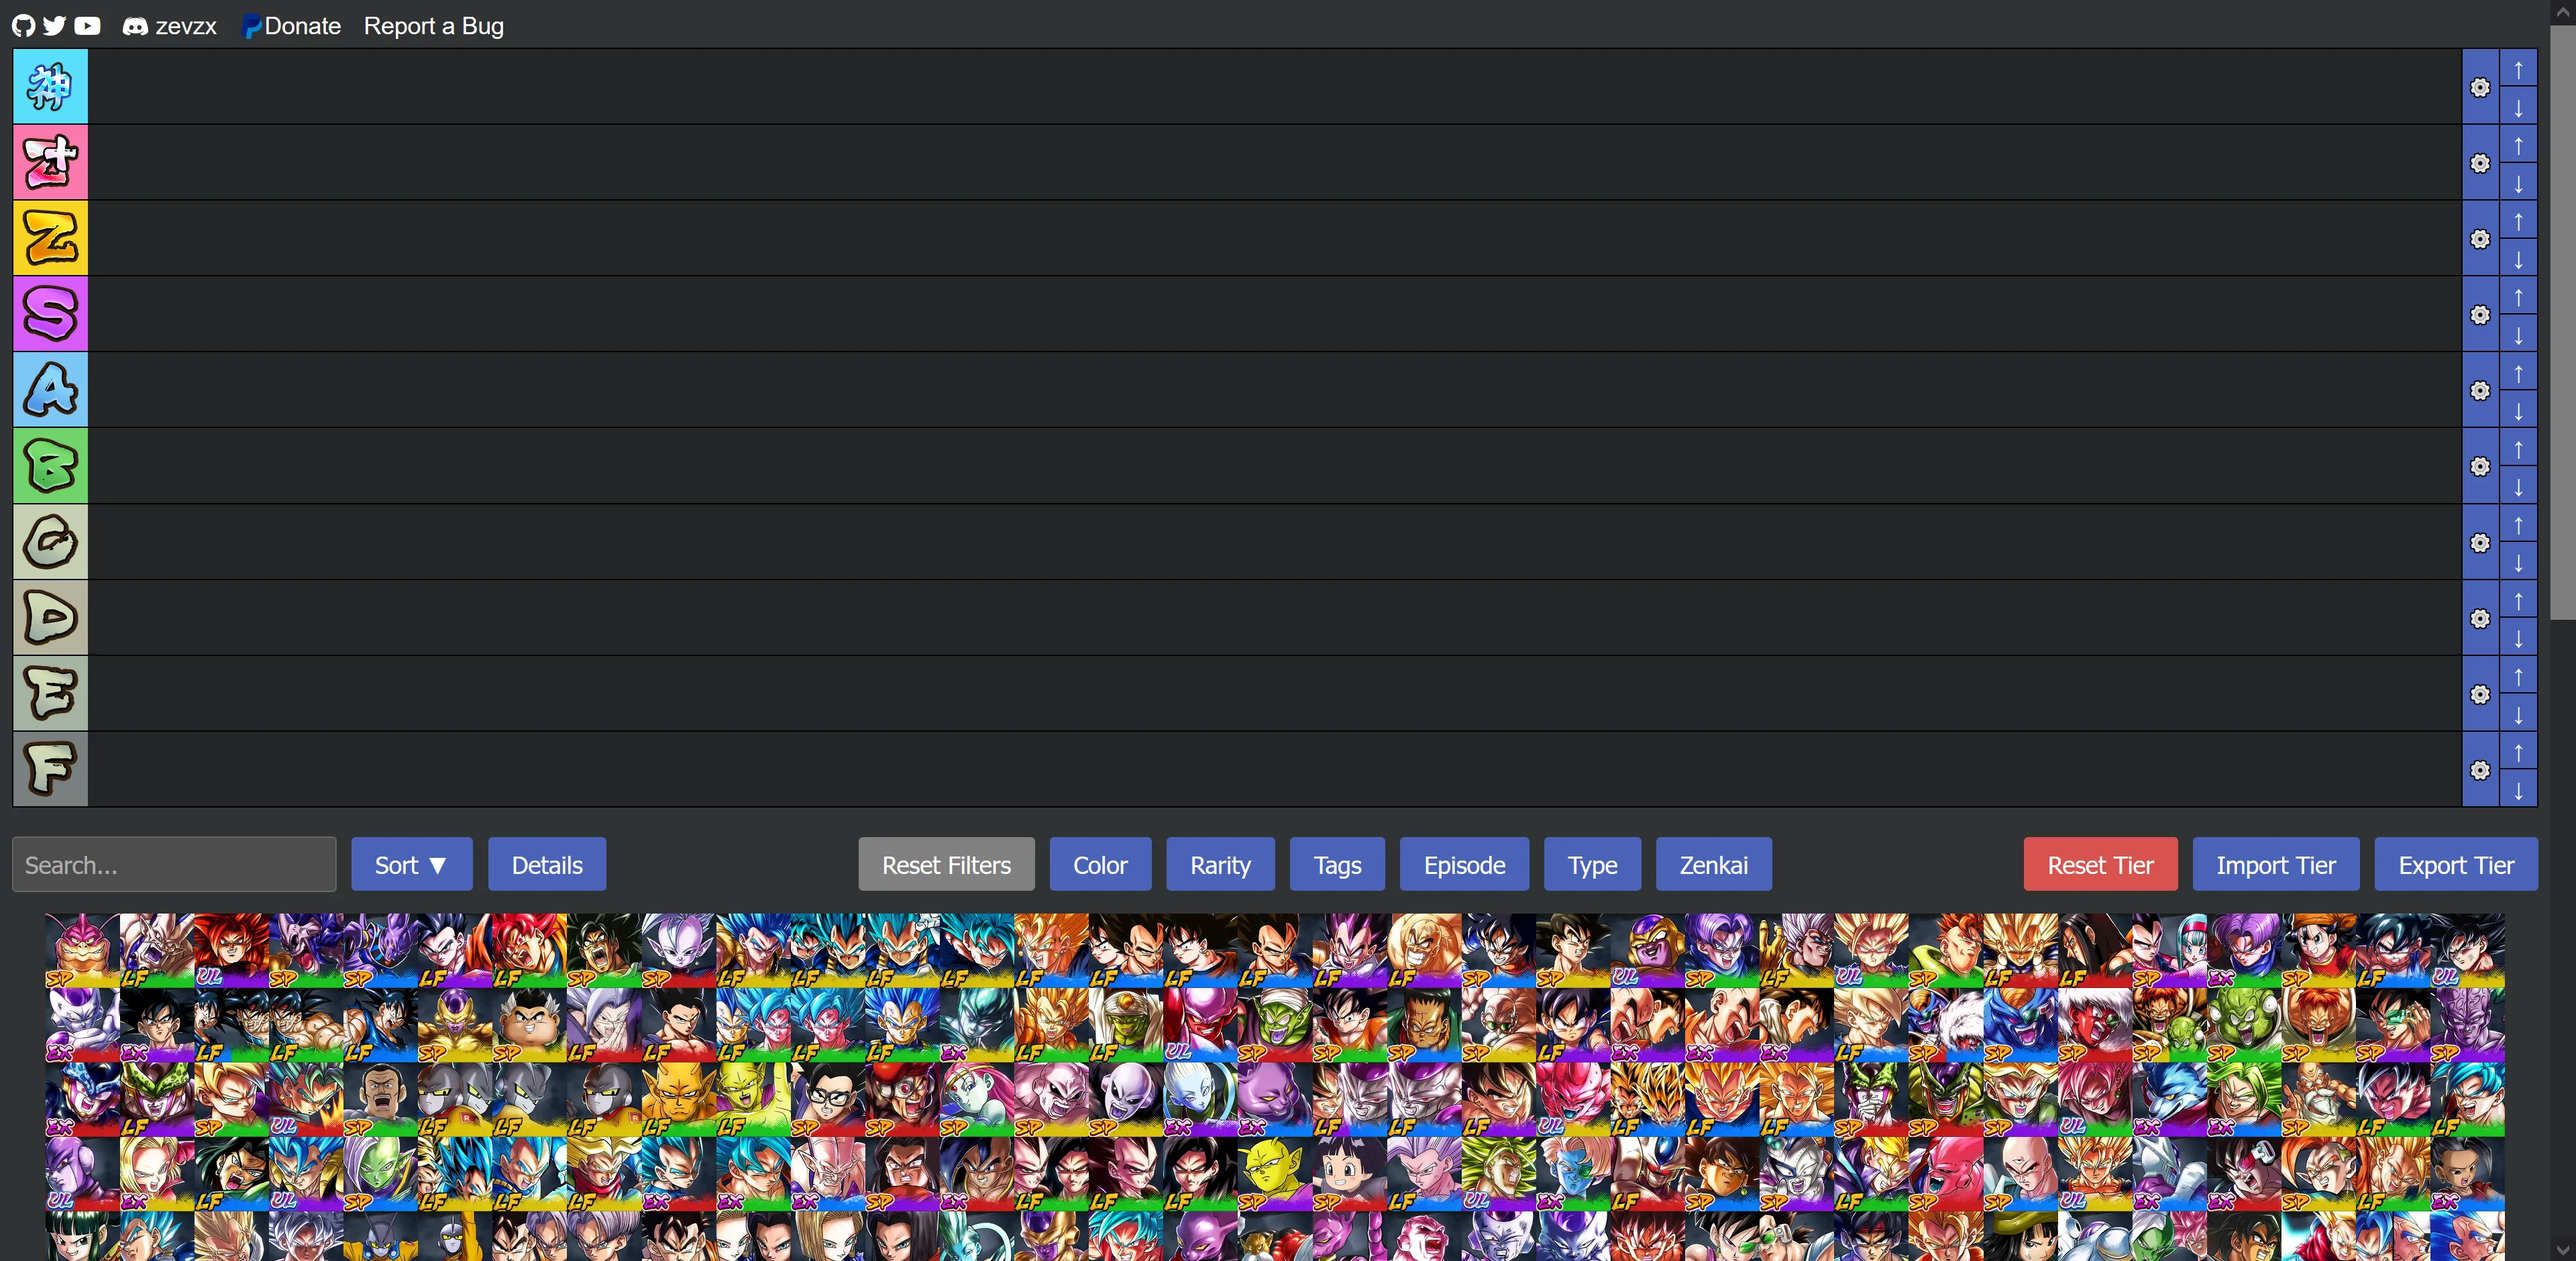
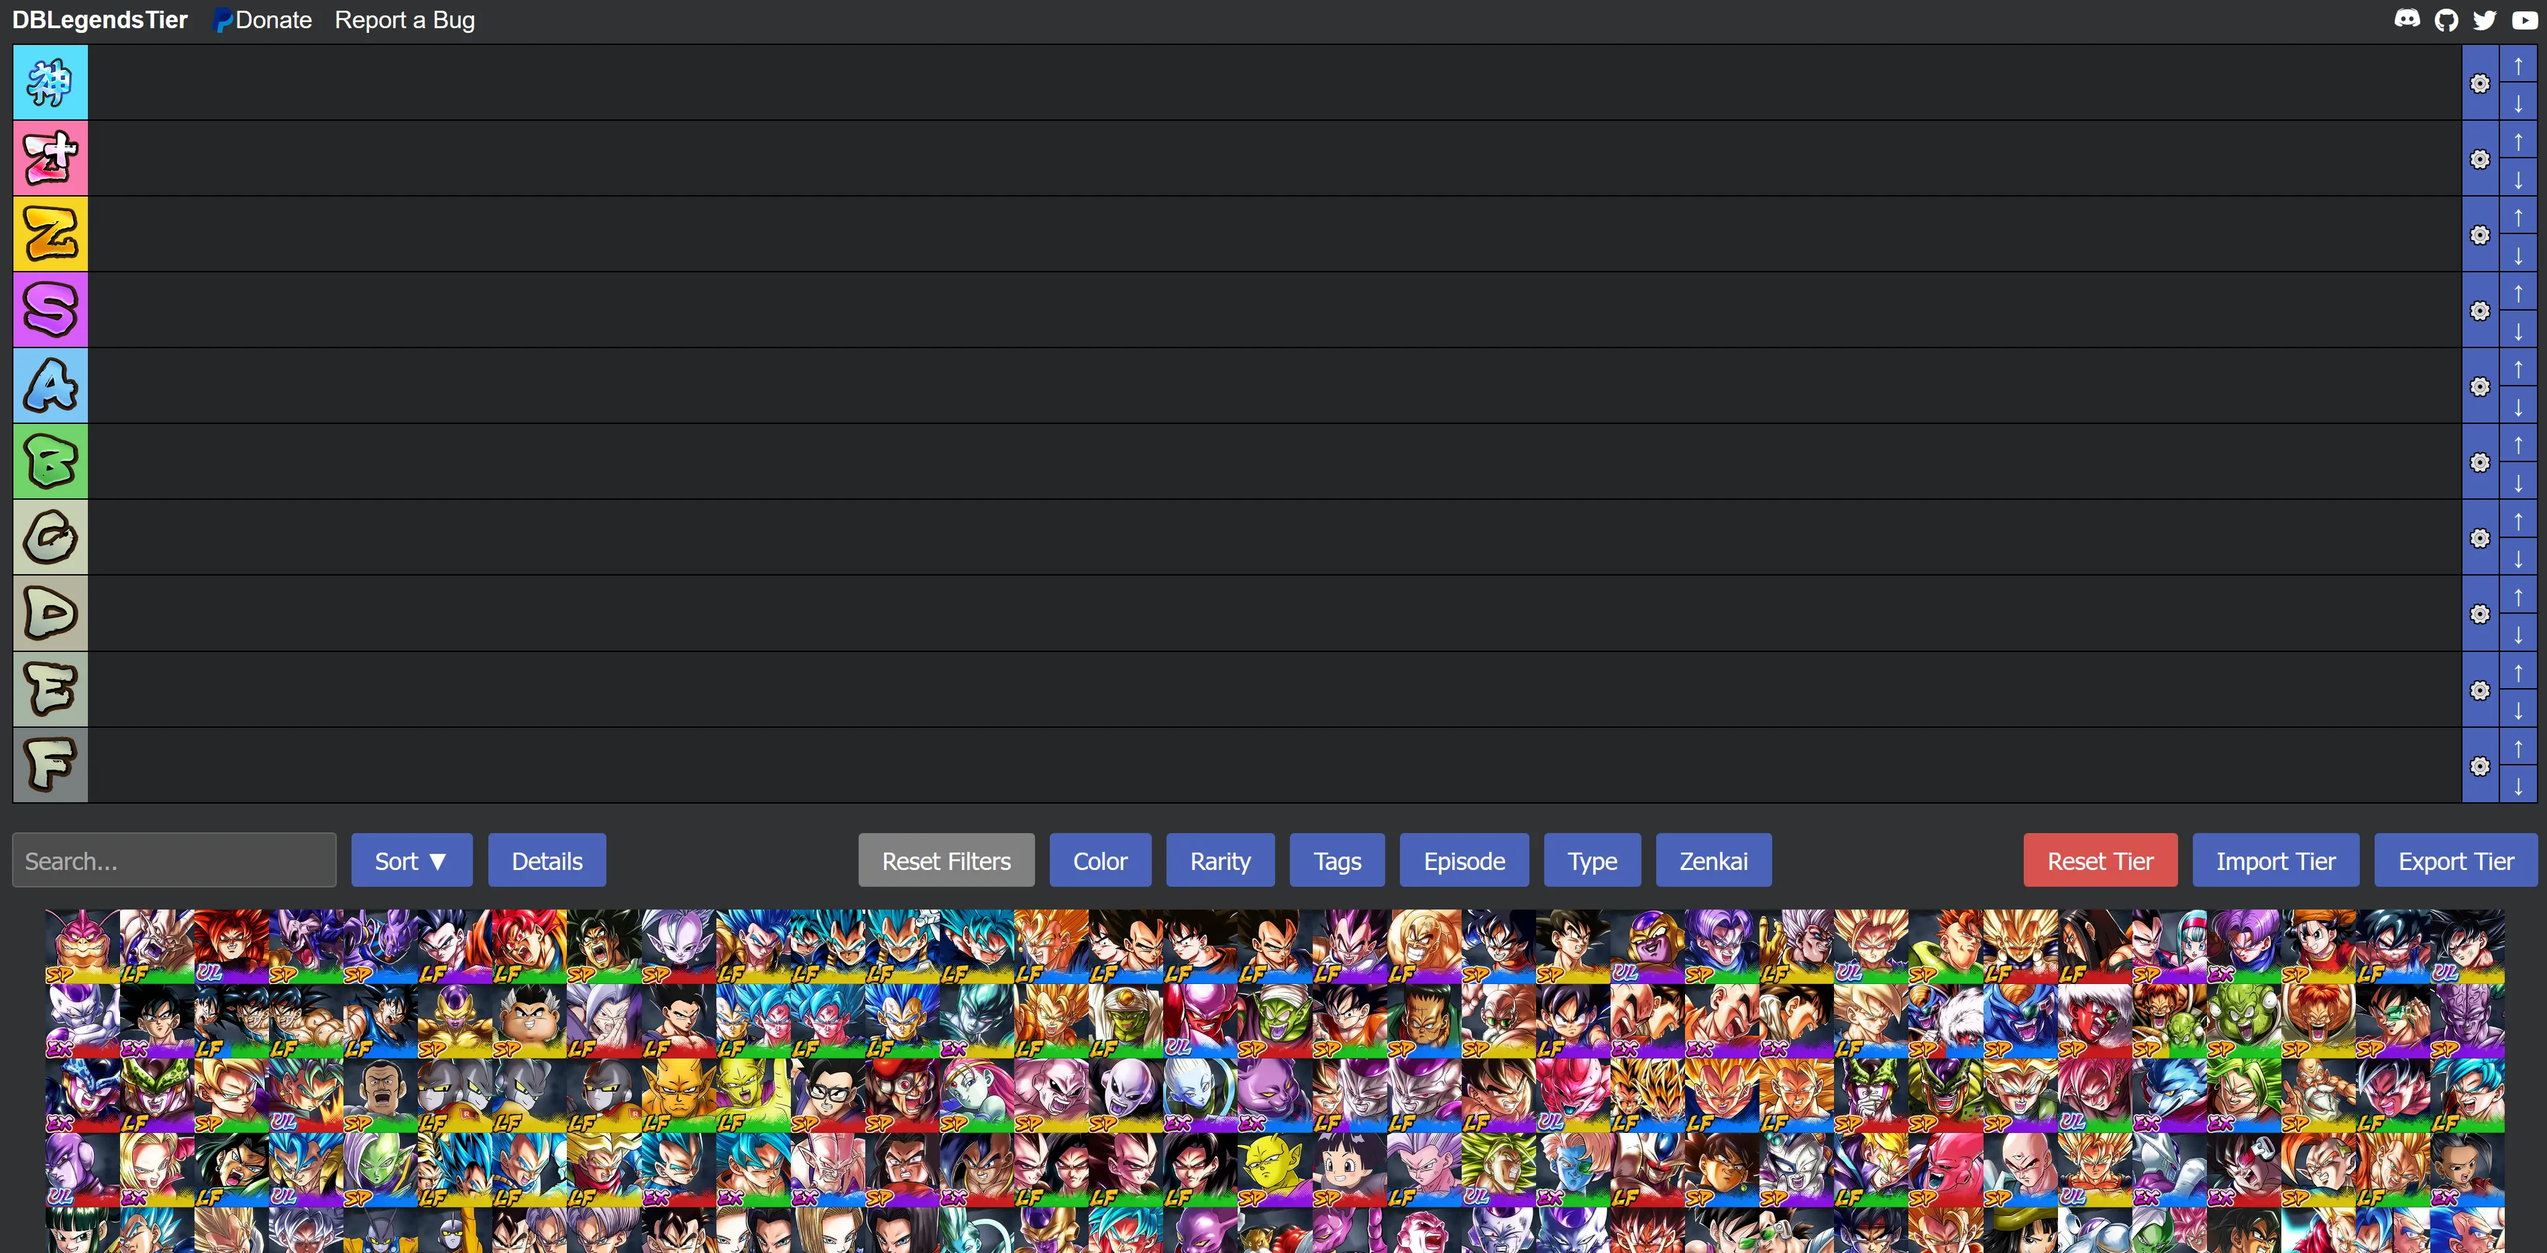
header adjustments

diff --git a/index.html b/index.html
@@ -6,20 +6,11 @@
     <link rel='stylesheet' href='styles.css?v=1.0.2'/>
     <link rel="icon" href="favicon.ico" type="image/x-icon">
     <link rel="stylesheet" href="https://cdnjs.cloudflare.com/ajax/libs/font-awesome/6.0.0-beta3/css/all.min.css">
-
 </head>
   <body>
     <header>
         <div class="header-items">
-            <div class="social-icons">
-                <a href="https://github.com/ZevZX/" target="_blank"><i class="fab fa-github"></i></a>
-                <a href="https://twitter.com/ZevZX" target="_blank"><i class="fab fa-twitter"></i></a>
-                <a href="https://www.youtube.com/channel/UCLAVlkqJu3zVtNV--pKd_wg" target="_blank"><i class="fab fa-youtube"></i></a>
-                <div class="discord-tag">
-                    <img src="assets/header_icon/discord.webp" alt="Discord" class="button-icon">
-                    <span>zevzx</span>
-                </div>
-            </div>
+            <div class="header-title"><b>DBLegendsTier</b></div>
             <div class="header-buttons">
                 <a href="https://www.paypal.me/ZevB38" target="_blank" id="donate-button">
                     <img src="assets/header_icon/paypal.webp" alt="PayPal" class="button-icon">
@@ -27,6 +18,15 @@
                 </a>
                 <a href="https://docs.google.com/forms/d/e/1FAIpQLSeuh3PiuAmLtpy0heElUYnjvtXEiqtS-o3Jf_rjMkGEHkn52A/viewform" target="_blank" id="report-bug-button">Report a Bug</a>
             </div>
+        </div>
+        <div class="social-icons">
+            <div class="discord-tag">
+                <img src="assets/header_icon/discord.webp" class="button-icon" alt="Discord">
+                <span class="discord-tag-popup">Discord Tag: zevzx</span>
+              </div>
+            <a href="https://github.com/ZevZX/DBLegendsTier" target="_blank"><i class="fab fa-github"></i></a>
+            <a href="https://twitter.com/ZevZX" target="_blank"><i class="fab fa-twitter"></i></a>
+            <a href="https://www.youtube.com/channel/UCLAVlkqJu3zVtNV--pKd_wg" target="_blank"><i class="fab fa-youtube"></i></a>
         </div>
     </header>
     <template id="row-template">

diff --git a/styles.css b/styles.css
@@ -4,7 +4,7 @@ header {
     display: flex;
     padding-bottom: 5px;
     color: white;
-    justify-content: flex-start;
+    justify-content: space-between;
     align-items: center;
 }
 
@@ -13,7 +13,8 @@ header {
     align-items: center;
 }
 
-.header-items a {
+.header-items a,
+.social-icons a {
     color: white;
     border: none;
     border-radius: 3px;
@@ -41,20 +42,48 @@ header {
 }
 
 .social-icons a {
-    margin-left: 0px;
-    margin-right: 5px;
+    margin-left: 10px;
+    margin-right: 0px;
     display: flex;
     align-items: center;
 }
 
 .discord-tag {
-    margin-left: 10px;
-    display: flex;
-    align-items: center;
+    position: relative;
+    display: inline-block;
 }
 
-.discord-tag span {
-    margin-left: 5px;
+.discord-tag-popup {
+    visibility: hidden;
+    width: 120px;
+    background-color: #555;
+    color: #fff;
+    text-align: center;
+    border-radius: 6px;
+    padding: 5px 0;
+    position: absolute;
+    z-index: 15;
+    top: 125%;
+    left: 50%;
+    margin-left: -60px;
+    opacity: 0;
+    transition: opacity 0.3s;
+}
+
+.discord-tag-popup::after {
+    content: "";
+    position: absolute;
+    bottom: 100%;
+    left: 50%;
+    margin-left: -5px;
+    border-width: 5px;
+    border-style: solid;
+    border-color: transparent transparent #555 transparent;
+}
+
+.discord-tag:hover .discord-tag-popup {
+    visibility: visible;
+    opacity: 1;
 }
 
 .social-icons img,
